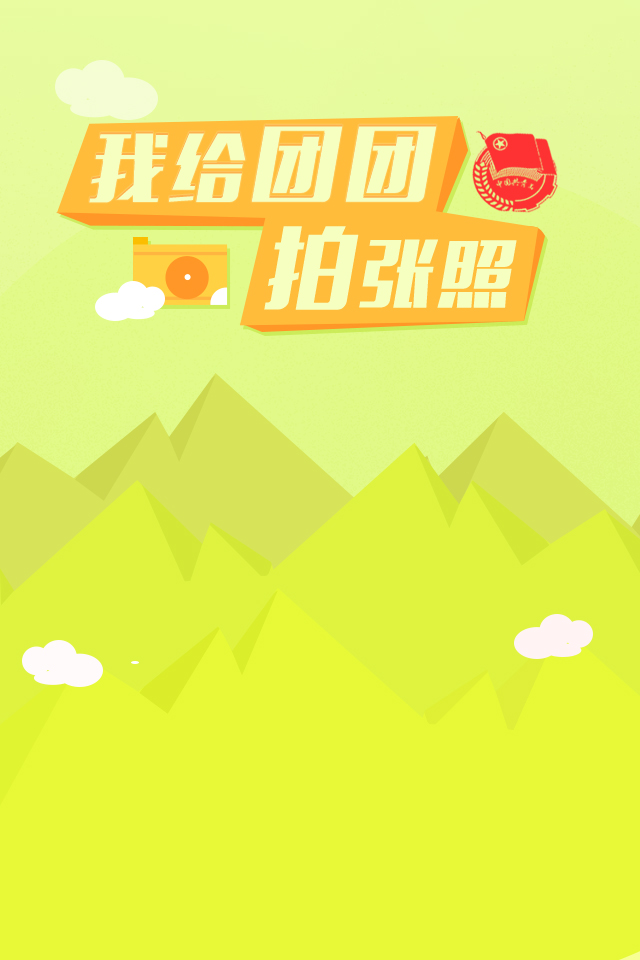
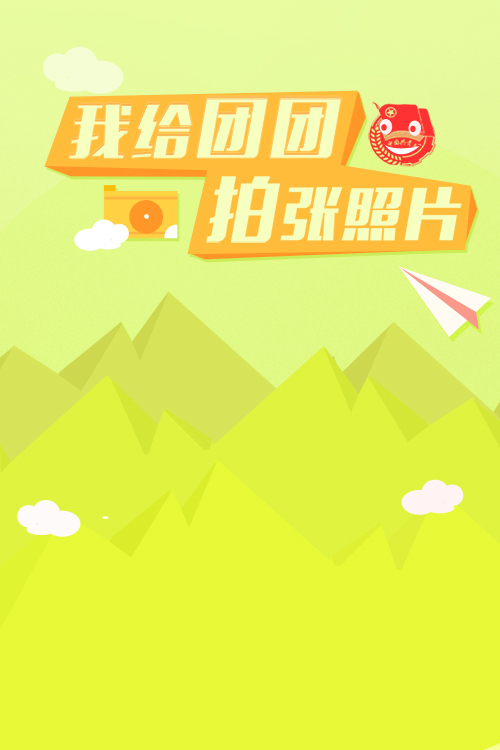
无Ajax版本

diff --git a/js/main.js b/js/main.js
@@ -17,6 +17,8 @@ $(function(){
 			oMask.css('z-index',-100);
 			var ogoal=$('.logoTuan');
 			ogoal.remove();
+			oCross[0].className='cross-bg cross';
+			//$('.cross-photos').css('display','none');
 			gameInit(oGame,center,oMask,oScoreBoard,oGuide,oCross);
 		});
 	});
@@ -30,16 +32,16 @@ function gameInit(obj,center,oMask,oScoreBoard,oGuide,oCross){
 	var take=true;
 	if(r<=1){
 		r='tuanqi';
-		deg=5;
-		speed=2;
-	}
-	else{
-		r='tuanhui';
 		deg=7;
 		speed=3;
 	}
+	else{
+		r='tuanhui';
+		deg=9;
+		speed=5;
+	}
 	function draw(){
-		var time=2;
+		var time=1000/60;
 		n+=deg;
 		m+=speed;
 		if(m>$(window).height()*0.52){
@@ -73,8 +75,13 @@ function gameInit(obj,center,oMask,oScoreBoard,oGuide,oCross){
 		if(m<$(window).height()*0.115){
 			return;
 		}
-		oCross.css('animation','Scales 0.3s');
 		clearTimeout(timer);
+		oCross.css({'-webkit-animation':'Scales 0.3s','-ms-animation':'Scales 0.3s','-moz-animation':'Scales 0.3s','animation':'Scales 0.3s'});
+		//var oPhoto=$('.cross-photos');
+		setTimeout(function(){
+			oCross.addClass('photo-box');
+			oCross.removeClass('cross-bg');
+		},400);
 		b=n%360-180;
 		if(b<0){
 			b+=180;
@@ -91,14 +98,13 @@ function gameInit(obj,center,oMask,oScoreBoard,oGuide,oCross){
 		if(!take){
 			sum=0;
 		}
-		console.log(b,p);
 		setTimeout(function(){
 			$('.score-num').html(sum);
-			oCross.css('animation','null');
+			oCross.css({'-webkit-animation':'null','-ms-animation':'null','-moz-animation':'null','animation':'null'});
 			oMask.css('z-index',100);
 			oGuide.css('display','none');
 			oScoreBoard.css('display','block');
-		},1200);
+		},2000);
 		ev.preventDefault();
 	});
 }

diff --git a/style/style.less b/style/style.less
@@ -106,6 +106,7 @@
           top: 40%;
         }
         position: absolute;
+        z-index: 100;
         background: url("../images/score.png") no-repeat;
         -webkit-background-size: 100% 100%;
         -ms-background-size: 100% 100%;
@@ -120,6 +121,12 @@
     -ms-background-size: 100% 100%;
     -moz-background-size: 100% 100%;
     background-size: 100% 100%;
+    .copyright{
+      text-align: center;
+      color: #cccccc;
+      position: relative;
+      top: 42%;
+    }
     .slogan{
       margin: 0 auto;
       background: url("../images/slogan.png");
@@ -158,12 +165,26 @@
       top: 11%;
       width: 72.5%;
       height: 41%;
-      z-index: 2;
+      z-index: 90;
+      transition: box-shadow 1s;
+      .cross-photos{
+        display: none;
+        margin: 0 auto;
+        width: 23%;
+        left: 0;
+        position: relative;
+        top: 35%;
+      }
+    }
+    .cross-bg{
       background: url("../images/cross.png");
       -webkit-background-size: 100% 100%;
       -ms-background-size: 100% 100%;
       -moz-background-size: 100% 100%;
       background-size: 100% 100%;
+    }
+    .photo-box{
+      box-shadow: 0 0 5px 12px #ffffff;
     }
     .logoTuan{
       margin: 0 auto;

diff --git a/style/style.css b/style/style.css
@@ -120,6 +120,7 @@
   height: 100%;
   text-align: center;
   position: absolute;
+  z-index: 100;
   background: url("../images/score.png") no-repeat;
   -webkit-background-size: 100% 100%;
   -ms-background-size: 100% 100%;
@@ -141,6 +142,12 @@
   -ms-background-size: 100% 100%;
   -moz-background-size: 100% 100%;
   background-size: 100% 100%;
+}
+.container .beginPage .copyright {
+  text-align: center;
+  color: #cccccc;
+  position: relative;
+  top: 42%;
 }
 .container .beginPage .slogan {
   margin: 0 auto;
@@ -180,12 +187,26 @@
   top: 11%;
   width: 72.5%;
   height: 41%;
-  z-index: 2;
+  z-index: 90;
+  transition: box-shadow 1s;
+}
+.container .gamePage .cross .cross-photos {
+  display: none;
+  margin: 0 auto;
+  width: 23%;
+  left: 0;
+  position: relative;
+  top: 35%;
+}
+.container .gamePage .cross-bg {
   background: url("../images/cross.png");
   -webkit-background-size: 100% 100%;
   -ms-background-size: 100% 100%;
   -moz-background-size: 100% 100%;
   background-size: 100% 100%;
+}
+.container .gamePage .photo-box {
+  box-shadow: 0 0 5px 12px #ffffff;
 }
 .container .gamePage .logoTuan {
   margin: 0 auto;

diff --git a/index.html b/index.html
@@ -11,6 +11,7 @@
 	<link rel="stylesheet" href="style/style.css"/>
 </head>
 <body>
+	<img src="images/begin-bg.jpg" style="position: absolute;top: -1000px">
 	<div class="container">
 		<ul>
 			<li class="mask">
@@ -37,10 +38,11 @@
 				<div class="play">
 
 				</div>
+				<p class="copyright">© 重庆团市委-学载青春梦</p>
 			</li>
 			<li class="gamePage">
-				<div class="cross">
-
+				<div class="cross cross-bg">
+					<img src="images/tuanhui.png" alt="" class="cross-photos"/>
 				</div>
 				<div class="shutBox">
 					<div class="shut">
